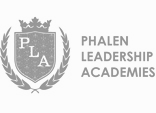
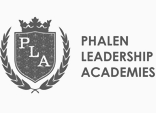
feat: optimize images

diff --git a/index.html b/index.html
@@ -48,12 +48,28 @@
 
     <main class="relative z-10 xl:pb-[120px]">
       <section class="w-full h-screen min-h-[450px] relative z-10">
-        <img src="./dist/img/first-section-bg.png"
-             class="absolute z-10 w-full h-full object-center object-cover bg-grey-200 bg-img-load bg-no-repeat bg-center"
-             width="1440"
-             height="810"
-             loading="lazy"
-             alt="Webovio presentation">
+        <picture>
+          <source media="(min-width: 1920px)"
+                  type="image/webp"
+                  sizes="(min-width: 1920px) 100vw"
+                  srcset="./dist/img/first-section-bg-fullhd@2x.webp 2x, ./dist/img/first-section-bg-fullhd.webp">
+          <source media="(min-width: 1024px)"
+                  type="image/webp"
+                  sizes="(min-width: 1024px) 100vw"
+                  srcset="./dist/img/first-section-bg-desktop@2x.webp 2x, ./dist/img/first-section-bg-desktop.webp">
+          <source media="(min-width: 1920px)"
+                  sizes="(min-width: 1920px) 100vw"
+                  srcset="./dist/img/first-section-bg-fullhd@2x.png 2x, ./dist/img/first-section-bg-fullhd.png">
+          <source media="(min-width: 1024px)"
+                  sizes="(min-width: 1024px) 100vw"
+                  srcset="./dist/img/first-section-bg-desktop@2x.png 2x, ./dist/img/first-section-bg-desktop.png">
+          <img src="./dist/img/first-section-bg.png"
+               class="absolute z-10 w-full h-full object-center object-cover bg-grey-200 bg-img-load bg-no-repeat bg-center"
+               width="1441"
+               height="811"
+               loading="lazy"
+               alt="Webovio presentation">
+        </picture>
         <div class="absolute inset-0 z-20 bg-black/20"></div>
         <div class="px-4 pt-15 relative z-30 flex flex-col short:justify-center justify-end short:pb-0 pb-5 h-full">
           <div class="max-w-container mx-auto w-full">
@@ -83,52 +99,70 @@
           <div class="big:flex big:items-center big:gap-2.5 big:justify-between">
 
             <div class="big:basis-auto big:shrink-0 big:grow-0">
-              <img src="./dist/img/Andrew-Porter-Logo.png"
-                   loading="lazy"
-                   width="156"
-                   height="113"
-                   class="mx-auto max-w-full"
-                   alt="Andrew Porter Logo">
+              <picture class="transition-all duration-300 opacity-60 hover:opacity-100">
+                <source type="image/webp" srcset="./dist/img/Andrew-Porter-Logo.webp">
+                <img src="./dist/img/Andrew-Porter-Logo.png"
+                     loading="lazy"
+                     width="156"
+                     height="113"
+                     class="mx-auto max-w-full bg-grey-200 bg-img-load bg-no-repeat bg-center bg-contain"
+                     alt="Andrew Porter Logo">
+              </picture>
             </div>
             <div class="big:hidden">
-              <img src="./dist/img/PhalenLeadership.png"
-                   loading="lazy"
-                   width="156"
-                   height="113"
-                   class="mx-auto max-w-full"
-                   alt="Phalen Leadership Academies Logo">
+              <picture class="transition-all duration-300 opacity-60 hover:opacity-100">
+                <source type="image/webp" srcset="./dist/img/PhalenLeadership.webp">
+                <img src="./dist/img/PhalenLeadership.png"
+                     loading="lazy"
+                     width="156"
+                     height="113"
+                     class="mx-auto max-w-full bg-grey-200 bg-img-load bg-no-repeat bg-center bg-contain"
+                     alt="Phalen Leadership Academies Logo">
+              </picture>
             </div>
             <div class="big:basis-auto big:shrink-0 big:grow-0">
-              <img src="./dist/img/Jalen-Rose-Leadership-Academy-Logo.png"
-                   loading="lazy"
-                   width="156"
-                   height="113"
-                   class="mx-auto max-w-full"
-                   alt="Jalen Rose Leadership Academy Logo">
+              <picture class="transition-all duration-300 opacity-60 hover:opacity-100">
+                <source type="image/webp" srcset="./dist/img/Jalen-Rose-Leadership-Academy-Logo.webp">
+                <img src="./dist/img/Jalen-Rose-Leadership-Academy-Logo.png"
+                     loading="lazy"
+                     width="156"
+                     height="113"
+                     class="mx-auto max-w-full bg-grey-200 bg-img-load bg-no-repeat bg-center bg-contain"
+                     alt="Jalen Rose Leadership Academy Logo">
+              </picture>
             </div>
             <div class="big:basis-auto big:shrink-0 big:grow-0">
-              <img src="./dist/img/Wal.png"
-                   loading="lazy"
-                   width="156"
-                   height="113"
-                   class="mx-auto max-w-full"
-                   alt="Walbridge logo">
+              <picture class="transition-all duration-300 opacity-60 hover:opacity-100">
+                <source type="image/webp" srcset="./dist/img/Wal.webp">
+                <img src="./dist/img/Wal.png"
+                     loading="lazy"
+                     width="156"
+                     height="113"
+                     class="mx-auto max-w-full bg-grey-200 bg-img-load bg-no-repeat bg-center bg-contain"
+                     alt="Walbridge logo">
+              </picture>
             </div>
             <div class="big:basis-auto big:shrink-0 big:grow-0">
-              <img src="./dist/img/Ideal.png"
-                   loading="lazy"
-                   width="156"
-                   height="113"
-                   class="mx-auto max-w-full"
-                   alt="Ideal contracting Logo">
+              <picture class="transition-all duration-300 opacity-60 hover:opacity-100">
+                <source type="image/webp" srcset="./dist/img/Ideal.webp">
+                <img src="./dist/img/Ideal.png"
+                     loading="lazy"
+                     width="156"
+                     height="113"
+                     class="mx-auto max-w-full bg-grey-200 bg-img-load bg-no-repeat bg-center bg-contain"
+                     alt="Ideal contracting Logo">
+              </picture>
             </div>
             <div class="big:basis-auto big:shrink-0 big:grow-0">
-              <img src="./dist/img/PhalenLeadership.png"
-                   loading="lazy"
-                   width="156"
-                   height="113"
-                   class="mx-auto max-w-full"
-                   alt="Phalen Leadership Academies Logo">
+              <picture class="transition-all duration-300 opacity-60 hover:opacity-100">
+                <source type="image/webp" srcset="./dist/img/PhalenLeadership.webp">
+                <img src="./dist/img/PhalenLeadership.png"
+                     loading="lazy"
+                     width="156"
+                     height="113"
+                     class="mx-auto max-w-full bg-grey-200 bg-img-load bg-no-repeat bg-center bg-contain"
+                     alt="Phalen Leadership Academies Logo">
+              </picture>
             </div>
 
           </div>
@@ -169,13 +203,16 @@
             </blockquote>
             <footer>
               <figure class="grid big:grid-cols-90-1 big:mt-12.5 mt-6 big:gap-x-7.5 items-center grid-cols-46-1 gap-x-3.5">
-                <img src="./dist/img/Genevieve_Rodriquez.png"
-                     width="180"
-                     height="180"
-                     title="Genevieve Rodriquez"
-                     class="big:shadow-medium shadow-lg rounded-full bg-grey-300 bg-avatar-default bg-no-repeat bg-center bg-contain"
-                     loading="lazy"
-                     alt="Genevieve Rodriquez">
+                <picture>
+                  <source type="image/webp" srcset="./dist/img/Genevieve_Rodriquez.webp">
+                  <img src="./dist/img/Genevieve_Rodriquez.png"
+                       width="180"
+                       height="180"
+                       title="Genevieve Rodriquez"
+                       class="big:shadow-medium shadow-lg rounded-full bg-grey-300 bg-avatar-default bg-no-repeat bg-center bg-contain"
+                       loading="lazy"
+                       alt="Genevieve Rodriquez">
+                </picture>
                 <figcaption class="big:text-1.5xl sm:text-base text-sm font-bold">
                   Genevieve Rodriquez
                   <cite class="big:mt-1.5 mt-1 big:text-base sm:text-sm text-xs font-normal not-italic block">
@@ -229,13 +266,29 @@
 
             <div class="article-perform w-full big:max-w-none max-w-md big:mx-0 mx-auto">
               <figure class="relative">
-                <img src="./dist/img/Balenciaga.png"
-                     loading="lazy"
-                     class="relative z-10 bg-img-load bg-grey-200 bg-center bg-no-repeat"
-                     width="1470"
-                     height="1100"
-                     title="The wall new Balenciaga.com"
-                     alt="The wall new Balenciaga.com">
+                <picture>
+                  <source media="(min-width: 1920px)"
+                          type="image/webp"
+                          sizes="(min-width: 1920px) 100vw"
+                          srcset="./dist/img/Balenciaga-fullhd@2x.webp 2x, ./dist/img/Balenciaga-fullhd.webp">
+                  <source media="(min-width: 1024px)"
+                          type="image/webp"
+                          sizes="(min-width: 1024px) 100vw"
+                          srcset="./dist/img/Balenciaga-desktop@2x.webp 2x, ./dist/img/Balenciaga-desktop.webp">
+                  <source media="(min-width: 1920px)"
+                          sizes="(min-width: 1920px) 100vw"
+                          srcset="./dist/img/Balenciaga-fullhd@2x.png 2x, ./dist/img/Balenciaga-fullhd.png">
+                  <source media="(min-width: 1024px)"
+                          sizes="(min-width: 1024px) 100vw"
+                          srcset="./dist/img/Balenciaga-desktop@2x.png 2x, ./dist/img/Balenciaga-desktop.png">
+                  <img src="./dist/img/Balenciaga.png"
+                       loading="lazy"
+                       class="relative z-10 bg-img-load bg-grey-200 bg-center bg-no-repeat"
+                       width="735"
+                       height="550"
+                       title="The wall new Balenciaga.com"
+                       alt="The wall new Balenciaga.com">
+                </picture>
                 <figcaption
                   class="bg-white big:shadow-huge shadow-lg quote-card max-w-quote-card w-full sm:p-7.5 p-4 rounded-lg big:absolute z-20 big:-bottom-8 big:mx-0 mx-auto big:mt-0 sm:mt-10 mt-4"
                   data-speed="1.1">
@@ -244,13 +297,16 @@
                     I've ever worked with that has better service than Exhibit Systems.”
                   </blockquote>
                   <figure class="grid grid-cols-46-1 mt-6 gap-x-3.5 items-center">
-                    <img src="./dist/img/Angel_Armstrong.png"
-                         width="92"
-                         height="92"
-                         title="Angel Armstrong"
-                         class="big:shadow-medium shadow-lg rounded-full bg-grey-300 bg-avatar-default bg-no-repeat bg-center bg-contain"
-                         loading="lazy"
-                         alt="Angel Armstrong">
+                    <picture>
+                      <source type="image/webp" srcset="./dist/img/Angel_Armstrong.webp">
+                      <img src="./dist/img/Angel_Armstrong.png"
+                           width="92"
+                           height="92"
+                           title="Angel Armstrong"
+                           class="big:shadow-medium shadow-lg rounded-full bg-grey-300 bg-avatar-default bg-no-repeat bg-center bg-contain"
+                           loading="lazy"
+                           alt="Angel Armstrong">
+                    </picture>
                     <figcaption class="text-base font-bold">
                       Angel Armstrong
                       <cite class="mt-1 text-sm font-normal not-italic block">
@@ -285,13 +341,29 @@
 
             <div class="article-perform w-full big:max-w-none max-w-md big:mx-0 mx-auto">
               <figure class="relative">
-                <img src="./dist/img/3D_model.png"
-                     loading="lazy"
-                     class="relative z-10 bg-img-load bg-grey-200 bg-center bg-no-repeat"
-                     width="1470"
-                     height="1100"
-                     title="Is this the future of 3D model?"
-                     alt="Is this the future of 3D model?">
+                <picture>
+                  <source media="(min-width: 1920px)"
+                          type="image/webp"
+                          sizes="(min-width: 1920px) 100vw"
+                          srcset="./dist/img/3D_model-fullhd@2x.webp 2x, ./dist/img/3D_model-fullhd.webp">
+                  <source media="(min-width: 1024px)"
+                          type="image/webp"
+                          sizes="(min-width: 1024px) 100vw"
+                          srcset="./dist/img/3D_model-desktop@2x.webp 2x, ./dist/img/3D_model-desktop.webp">
+                  <source media="(min-width: 1920px)"
+                          sizes="(min-width: 1920px) 100vw"
+                          srcset="./dist/img/3D_model-fullhd@2x.png 2x, ./dist/img/3D_model-fullhd.png">
+                  <source media="(min-width: 1024px)"
+                          sizes="(min-width: 1024px) 100vw"
+                          srcset="./dist/img/3D_model-desktop@2x.png 2x, ./dist/img/3D_model-desktop.png">
+                  <img src="./dist/img/3D_model.png"
+                       loading="lazy"
+                       class="relative z-10 bg-img-load bg-grey-200 bg-center bg-no-repeat"
+                       width="735"
+                       height="550"
+                       title="Is this the future of 3D model?"
+                       alt="Is this the future of 3D model?">
+                </picture>
                 <figcaption
                   class="bg-white big:shadow-huge shadow-lg quote-card max-w-quote-card w-full sm:p-7.5 p-4 rounded-lg big:absolute z-20 big:-bottom-8 big:mx-0 mx-auto big:mt-0 sm:mt-10 mt-4"
                   data-speed="1.1">
@@ -300,13 +372,16 @@
                     to be good. That is the number one advantage of working with Exhibit Systems.”
                   </blockquote>
                   <figure class="grid grid-cols-46-1 mt-6 gap-x-3.5 items-center">
-                    <img src="./dist/img/Lina_Hart.png"
-                         width="92"
-                         height="92"
-                         title="Lina Hart"
-                         class="big:shadow-medium shadow-lg rounded-full bg-grey-300 bg-avatar-default bg-no-repeat bg-center bg-contain"
-                         loading="lazy"
-                         alt="Lina Hart">
+                    <picture>
+                      <source type="image/webp" srcset="./dist/img/Lina_Hart.webp">
+                      <img src="./dist/img/Lina_Hart.png"
+                           width="92"
+                           height="92"
+                           title="Lina Hart"
+                           class="big:shadow-medium shadow-lg rounded-full bg-grey-300 bg-avatar-default bg-no-repeat bg-center bg-contain"
+                           loading="lazy"
+                           alt="Lina Hart">
+                    </picture>
                     <figcaption class="text-base font-bold">
                       Lina Hart
                       <cite class="mt-1 text-sm font-normal not-italic block">
@@ -340,13 +415,29 @@
 
             <div class="article-perform w-full big:max-w-none max-w-md big:mx-0 mx-auto">
               <figure class="relative">
-                <img src="./dist/img/Online_Booking.png"
-                     loading="lazy"
-                     class="relative z-10 bg-img-load bg-grey-200 bg-center bg-no-repeat"
-                     width="1470"
-                     height="1100"
-                     title="Is this the future of Online Booking"
-                     alt="Is this the future of Online Booking">
+                <picture>
+                  <source media="(min-width: 1920px)"
+                          type="image/webp"
+                          sizes="(min-width: 1920px) 100vw"
+                          srcset="./dist/img/Online_Booking-fullhd@2x.webp 2x, ./dist/img/Online_Booking-fullhd.webp">
+                  <source media="(min-width: 1024px)"
+                          type="image/webp"
+                          sizes="(min-width: 1024px) 100vw"
+                          srcset="./dist/img/Online_Booking-desktop@2x.webp 2x, ./dist/img/Online_Booking-desktop.webp">
+                  <source media="(min-width: 1920px)"
+                          sizes="(min-width: 1920px) 100vw"
+                          srcset="./dist/img/Online_Booking-fullhd@2x.png 2x, ./dist/img/Online_Booking-fullhd.png">
+                  <source media="(min-width: 1024px)"
+                          sizes="(min-width: 1024px) 100vw"
+                          srcset="./dist/img/Online_Booking-desktop@2x.png 2x, ./dist/img/Online_Booking-desktop.png">
+                  <img src="./dist/img/Online_Booking.png"
+                       loading="lazy"
+                       class="relative z-10 bg-img-load bg-grey-200 bg-center bg-no-repeat"
+                       width="735"
+                       height="550"
+                       title="Is this the future of Online Booking"
+                       alt="Is this the future of Online Booking">
+                </picture>
                 <figcaption
                   class="bg-white big:shadow-huge shadow-lg quote-card max-w-quote-card w-full sm:p-7.5 p-4 rounded-lg big:absolute z-20 big:-bottom-8 big:mx-0 mx-auto big:mt-0 sm:mt-10 mt-4"
                   data-speed="1.1">
@@ -355,13 +446,16 @@
                     trade shows effective.”
                   </blockquote>
                   <figure class="grid grid-cols-46-1 mt-6 gap-x-3.5 items-center">
-                    <img src="./dist/img/Eunice_Oliver.png"
-                         width="92"
-                         height="92"
-                         title="Eunice Oliver"
-                         class="big:shadow-medium shadow-lg rounded-full bg-grey-300 bg-avatar-default bg-no-repeat bg-center bg-contain"
-                         loading="lazy"
-                         alt="Eunice Oliver">
+                    <picture>
+                      <source type="image/webp" srcset="./dist/img/Eunice_Oliver.webp">
+                      <img src="./dist/img/Eunice_Oliver.png"
+                           width="92"
+                           height="92"
+                           title="Eunice Oliver"
+                           class="big:shadow-medium shadow-lg rounded-full bg-grey-300 bg-avatar-default bg-no-repeat bg-center bg-contain"
+                           loading="lazy"
+                           alt="Eunice Oliver">
+                    </picture>
                     <figcaption class="text-base font-bold">
                       Eunice Oliver
                       <cite class="mt-1 text-sm font-normal not-italic block">
